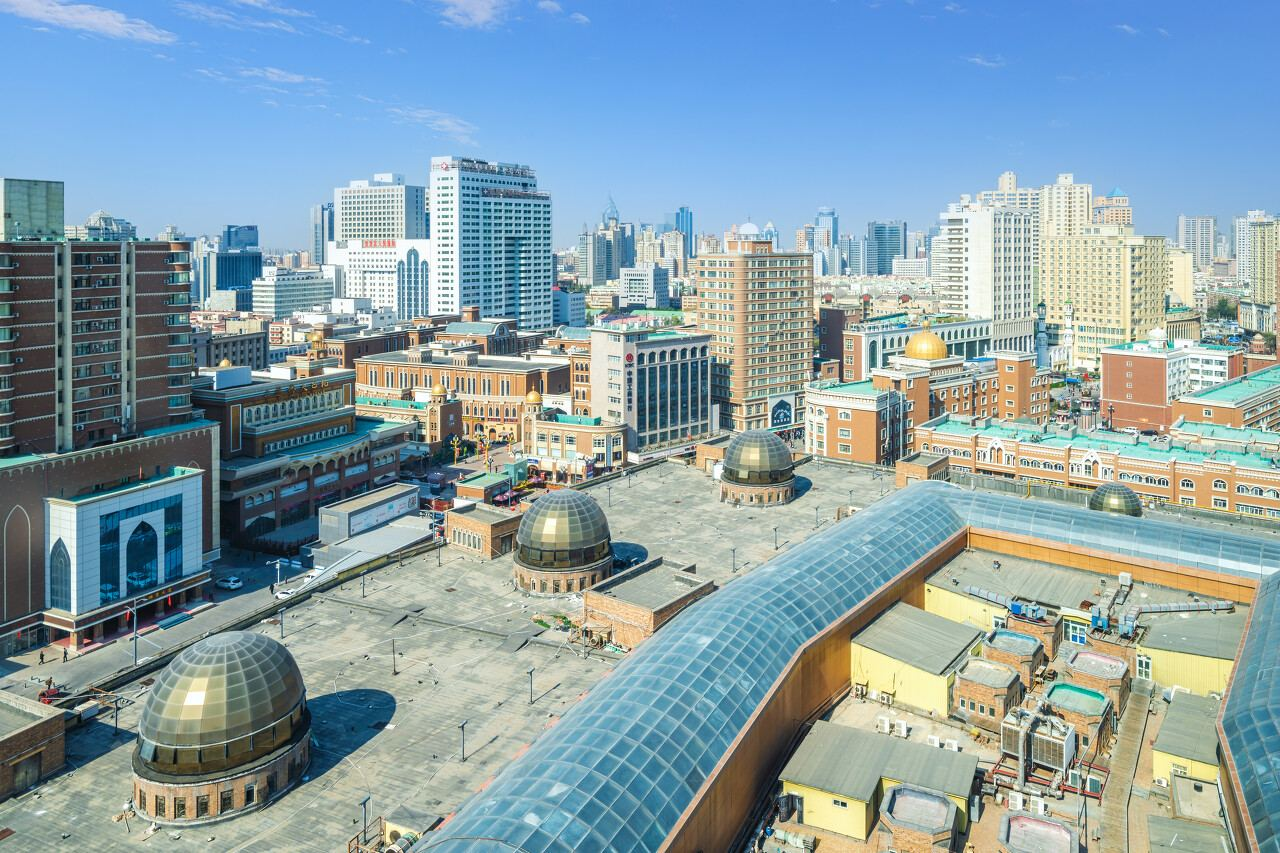
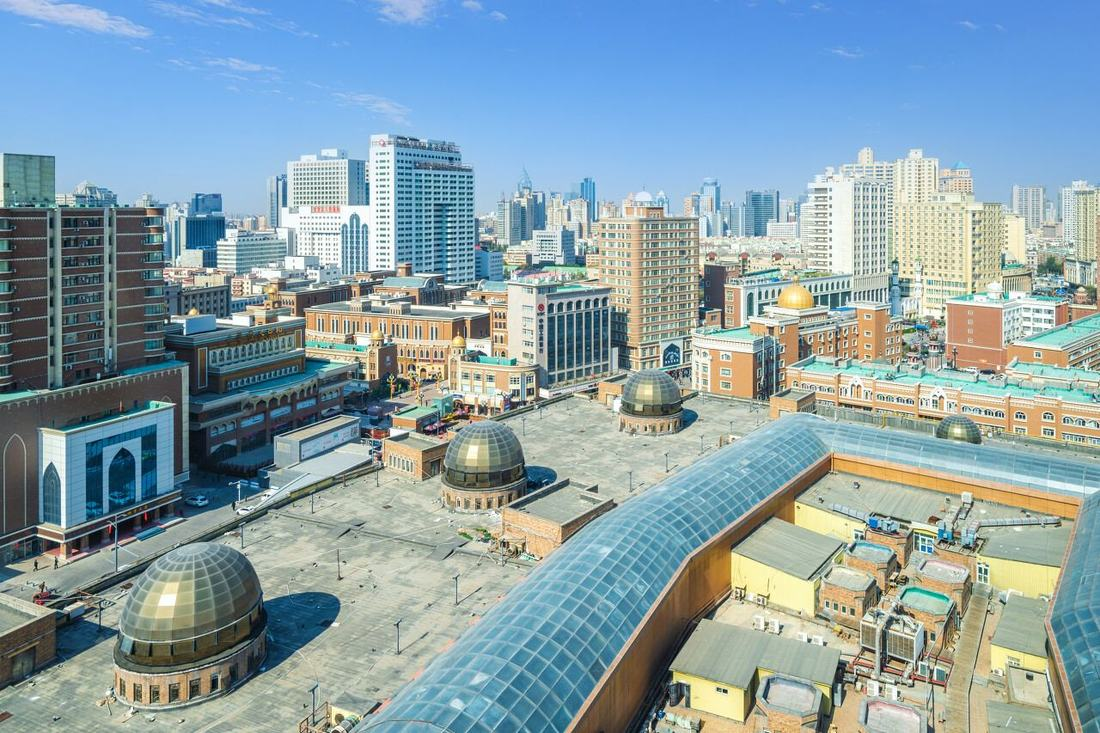
打通看点与地图：16 个看点、14 个地图入口
新增看点 喀纳斯三湾 / 温泉圣泉（实景图 2 张，素材压回 10MB 内）
看点卡新增地图定位按钮：点开切到当天并定位到该点弹卡；没有精确点位的只给当天整条线，不假装有点
喀纳斯湖冰推里观鱼台口径改准：2026-10-07 起已季节性关闭、徒步线路同步停开
路线未加载完时先挂起请求，加载完自动带过去
SPOT_ALIAS 补三湾 月亮湾 卧龙沟 圣泉 博格达尔等跳转词

diff --git a/index.html b/index.html
@@ -145,6 +145,9 @@ button{font-family:inherit;cursor:pointer;border:none;background:none;color:inhe
 .spot-card__book{font-size:.76rem;margin-top:.4rem;color:var(--text-secondary);line-height:1.5}
 .spot-card__book a{color:var(--accent);text-decoration:none;border-bottom:1px solid currentColor}
 .spot-card__book a:hover{opacity:.75}
+.spot-card__map{display:inline-flex;align-items:center;gap:.35rem;margin-top:.55rem;padding:.28rem .58rem;border:1px solid var(--border);border-radius:0;background:transparent;color:var(--text-secondary);font:inherit;font-size:.74rem;line-height:1.5;cursor:pointer;transition:var(--transition)}
+.spot-card__map:hover{border-color:var(--accent);color:var(--accent)}
+.spot-card__map svg{width:12px;height:12px;flex:none;opacity:.72}
 
 .lightbox{position:fixed;inset:0;z-index:2000;background:rgba(0,0,0,.92);display:none;align-items:center;justify-content:center;padding:2rem}
 .lightbox.active{display:flex}
@@ -1017,10 +1020,10 @@ const itinerary = [
   },
 ];
 
-const spotKinds = ['网红','小众','备选','人文','网红','打卡','小众','人文','备选','打卡','人文','机位','机位','打卡'];
+const spotKinds = ['网红','小众','备选','人文','网红','打卡','小众','人文','备选','打卡','人文','机位','机位','打卡','机位','人文'];
 const spots = [
   {name:'禾木晨雾',region:'阿勒泰',desc:'日出时哈登观景台，炊烟、晨雾、木屋群。12 月初日出约 09:30。冬季全域票 100 元/人·3 天，含禾木。村里车位少，自驾进村要先预约，没约上就停游客中心换免费区间车。',img:'assets/spot_hemu.jpg',ref:'实景图·VCG',book:'官方渠道：小程序「喀纳斯景区」「原行网」· 无网页购票',bookUrl:'https://kns.gov.cn/005/005002/20251023/9b6b36ac-c16d-4b28-84a6-dda609d72f5c.html'},
-  {name:'喀纳斯湖冰推',region:'阿勒泰',desc:'12 月初湖面开始结冰，冰块被风推到岸边堆起来。全域票已含喀纳斯。哈纳斯村冬季可自驾进、在指定区域停车。观鱼台冬天常封闭，到了问一句。',img:'assets/spot_kanas.jpg',ref:'实景图·VCG',book:'官方渠道：小程序「喀纳斯景区」「原行网」· 无网页购票',bookUrl:'https://kns.gov.cn/005/005002/20251023/9b6b36ac-c16d-4b28-84a6-dda609d72f5c.html'},
+  {name:'喀纳斯湖冰推',region:'阿勒泰',desc:'12 月初湖面开始结冰，冰块被风推到岸边堆起来。全域票已含喀纳斯。哈纳斯村冬季可自驾进、在指定区域停车。观鱼台 2026 年 10 月 7 日起已季节性关闭、徒步线路同步停开，这条别惦记。',img:'assets/spot_kanas.jpg',ref:'实景图·VCG',book:'官方渠道：小程序「喀纳斯景区」「原行网」· 无网页购票',bookUrl:'https://kns.gov.cn/005/005002/20251023/9b6b36ac-c16d-4b28-84a6-dda609d72f5c.html'},
   {name:'白哈巴村',region:'阿勒泰',desc:'这次不去，要边防证。留作下次：西北第一村，中哈边境。',img:'assets/spot_baihaba.jpg',ref:'实景图·VCG',book:'本次不去，不用买票',bookUrl:''},
   {name:'布尔津河堤夜市',region:'布尔津',desc:'冷水鱼一条街。烤狗鱼、五道黑，晚上才热闹。',img:'assets/spot_nightmarket.jpg',ref:'实景图·今日头条',book:'街区免费，吃饭按店结账',bookUrl:''},
   {name:'赛里木湖蓝冰',region:'博州',desc:'12 月初只有冰推冰裂，成片蓝冰要等 1 月中下旬。冬季门票半价 35 元/人；自驾服务费按车算，5 座及以下 120 元。东门进南门出，逆时针环湖。',img:'assets/spot_sayram.jpg',ref:'实景图·人民图片',book:'景区官方平台在线预约门票↗',bookUrl:'https://h5.visitor.xjslmhlt.cn/'},
@@ -1033,6 +1036,8 @@ const spots = [
   {name:'哈登观景台',region:'阿勒泰',desc:'禾木村旁边的山坡观景台，日出、晨雾、炊烟和整片屋顶都在这儿一眼收下。12 月初日出约 09:30，提前 40 分钟往上走占位；雪坡滑，鞋底要有齿。票含在禾木全域票里，不另收。',img:'assets/spot_hadeng.jpg',ref:'实景图·千图网',book:'含在喀纳斯全域票（100 元/人·3 天）内',bookUrl:'https://kns.gov.cn/005/005002/20251023/9b6b36ac-c16d-4b28-84a6-dda609d72f5c.html'},
   {name:'禾木桥',region:'阿勒泰',desc:'跨在禾木河上的木桥，全村最有辨识度的一段。冬天河水还在流，桥下腾着白雾，两侧白桦挂着雪。早上人少，侧逆光能把木桥、雪山、流水三样同框收进一张。',img:'assets/spot_hemubridge.jpg',ref:'实景图·VCG',book:'免费，就在村里，不用买票',bookUrl:''},
   {name:'独库公路零公里',region:'克拉玛依',desc:'G217 独库公路的起点碑，在独山子城区，从玛依塔柯酒店过去很近。要注意这条路 12 月是封的：自治区交通运输厅通告，2026 年 10 月 8 日 20 时起冬季封闭、禁止社会车辆通行，一般次年 6 月才恢复。所以只拍碑，别打算开进去。',img:'assets/spot_duku0.jpg',ref:'来源：自治区交通运输厅通告↗',refUrl:'https://jtyst.xinjiang.gov.cn/xjjtysj/c115584/202610/51492d5769d8457a931374927313c6d9.shtml',book:'免费，路边打卡；公路本身冬季禁行↗',bookUrl:'https://jtyst.xinjiang.gov.cn/xjjtysj/c115584/202610/51492d5769d8457a931374927313c6d9.shtml'},
+  {name:'喀纳斯三湾',region:'阿勒泰',desc:'卧龙湾、月亮湾、神仙湾在喀纳斯河下游依次排开，园内区间车有停靠点，冬天照走。12 月初河面冰封、主河道还是碧绿的，两岸松枝挂满雾凇；但雪把河湾盖住大半，秋天那种彩色河湾是看不到了，别按秋天的照片期待。',img:'assets/spot_sanwan.jpg',ref:'实景图·视觉中国',book:'官方渠道：小程序「喀纳斯景区」「原行网」· 无网页购票',bookUrl:'https://kns.gov.cn/005/005002/20251023/9b6b36ac-c16d-4b28-84a6-dda609d72f5c.html'},
+  {name:'温泉圣泉',region:'博州',desc:'温泉县城边上的博格达尔温泉，当地人叫它「圣泉」，主泉眼常年 40–62℃。花间堂就在这个景区里，D8 住下不用出景区就能泡；景区全年全天开放，白天有免费泡脚的池子，正对雪山和湿地。泡池是酒店自己的，另收费。',img:'assets/spot_shengquan.jpg',ref:'实景图·今日头条',book:'景区免费进入；泡池按酒店单独收费',bookUrl:''},
 ];
 
 /* 酒店（九晚住处） */
@@ -1205,7 +1210,7 @@ function renderSpots(){
       const book=s.book?(s.bookUrl?`<div class="spot-card__book"><a href="${s.bookUrl}" target="_blank" rel="noopener" onclick="event.stopPropagation()">${s.book}</a></div>`:`<div class="spot-card__book">${s.book}</div>`):'';
       return `<div class="spot-card reveal" data-spot="${i}" data-jumpkey="${s.name}">
         ${galleryTpl(imgs,s.name,'spot-'+i)}
-        <div class="spot-card__body"><div class="spot-card__name"><span class="spot-card__kind">${spotKinds[i]||'看点'}</span>${codeBadge(s.name)}${s.name}</div><div class="spot-card__desc">${s.desc}</div>${book}<div class="spot-card__ref">${s.ref}</div></div></div>`;
+        <div class="spot-card__body"><div class="spot-card__name"><span class="spot-card__kind">${spotKinds[i]||'看点'}</span>${codeBadge(s.name)}${s.name}</div><div class="spot-card__desc">${s.desc}</div>${book}${mapBtn(s,i)}<div class="spot-card__ref">${s.ref}</div></div></div>`;
     }).join('');
     return `<div class="region-head anchor-block" id="reg-${reg}"><span class="region-head__name">${reg}</span><span class="region-head__meta">${idxs.length} 处</span></div><div class="spots-grid">${cards}</div>`;
   }).join('');
@@ -1818,6 +1823,7 @@ function jumpTargets(){
 }
 /* 景点地名 → 看点卡片：手工别名表，右边一律逐字等于 spots 里的 name */
 const SPOT_ALIAS={
+  '喀纳斯三湾':'喀纳斯三湾','三湾':'喀纳斯三湾','月亮湾':'喀纳斯三湾','卧龙湾':'喀纳斯三湾','神仙湾':'喀纳斯三湾','温泉圣泉':'温泉圣泉','圣泉':'温泉圣泉','博格达尔':'温泉圣泉',
   '喀纳斯湖':'喀纳斯湖冰推','喀纳斯':'喀纳斯湖冰推',
   '禾木村':'禾木晨雾','禾木':'禾木晨雾',
   '白哈巴':'白哈巴村','阿禾公路':'阿禾公路',
@@ -1962,6 +1968,14 @@ const CARD_CODE={
   '赛里木湖蓝冰':['D7-2'],
   '乌鲁木齐大巴扎':['D9-3']
 };
+const MV_SPOT_SVG='<svg viewBox="0 0 24 24" fill="none" stroke="currentColor" stroke-width="1.8" aria-hidden="true"><path d="M12 21s-6.5-6.1-6.5-11a6.5 6.5 0 0 1 13 0c0 4.9-6.5 11-6.5 11z"/><circle cx="12" cy="10" r="2.4"/></svg>';
+/* 看点 → 当天编号：'D3-3' 表示回 D3 地图定位该点，'D5' 只表示在这天的路上 */
+const SPOT_MAP={'禾木晨雾':'D3-2','喀纳斯湖冰推':'D4-1','布尔津河堤夜市':'D5-2','赛里木湖蓝冰':'D7-2','魔鬼城雪景':'D6-1','阿禾公路':'D3','乌鲁木齐大巴扎':'D9-2','五彩滩日落':'D5','黑油山':'D6','哈登观景台':'D3-3','禾木桥':'D3','独库公路零公里':'D6','喀纳斯三湾':'D4','温泉圣泉':'D8-1'};
+function mapBtn(s,i){
+  const c=SPOT_MAP[s.name]; if(!c)return '';
+  const pin=c.indexOf('-')>0;
+  return '<button class="spot-card__map" type="button" data-spotmap="'+i+'" title="'+(pin?'在地图上定位这个点':'看这一天的整条线路')+'">'+MV_SPOT_SVG+'<span>'+(pin?'地图定位':'D'+c.slice(1)+' 路上')+'</span></button>';
+}
 function codeBadge(n){var c=CARD_CODE[n];return (c&&c.length)?'<span class="poi-code">'+c.join('/')+'</span>':'';}
 
 /* 初始化 */
@@ -1999,6 +2013,8 @@ const DAYS = Object.keys(mapDays);
 
 /* 站点编号全量表：按天顺序、每天从 1 开始，与当前视图无关——单天看和全程看，同一个点永远同一个号 */
 const POI_CODE=(function(){var m={};DAYS.forEach(function(d){var i=0;((mapDays[d]||{}).pois||[]).forEach(function(p){i++;m[d+'|'+p[2]]=d+'-'+i;});});return m;})();
+/* 反向表：'D3-3' → {day,p}，供看点卡跳地图用 */
+const CODE_POI=(function(){var m={};DAYS.forEach(function(d){var i=0;((mapDays[d]||{}).pois||[]).forEach(function(p){i++;m[d+'-'+i]={day:d,p:p};});});return m;})();
 const KMPS = 15;                 /* 1× = 15 km/秒，全程约 190 秒 */
 
 let mvMap=null,mvBase=null,mvTrail=null,mvGlow=null,mvProg=null,mvHi=null,mvCar=null,mvMe=null,mvWatch=null,mvLoaded=false,mvDayMarks=[],mvPoiLayer=null;
@@ -2418,6 +2434,10 @@ function mvInit(){
 
   loadRoutes(function(){
     mvLoaded=true;
+    if(mvPendingSpot!==null){
+      var _pend=mvPendingSpot; mvPendingSpot=null;
+      setTimeout(function(){ try{spotJump(_pend);}catch(e){} },320);
+    }
     buildTrip();
     mvBase.setLatLngs(GPTS);
     const DAY_PLACE=['乌市','阿勒泰','禾木','喀纳斯','布尔津','乌尔禾·独山子','赛里木湖','温泉县','乌市','机场还车'];
@@ -2443,6 +2463,45 @@ function mvInit(){
     if(PV._wantPlay){PV._wantPlay=false;setPlaying(true);}
   });
 }
+let mvSpotLayer=null;
+let mvPendingSpot=null;   /* 路线还没加载完时，先把要看的看点存下来 */
+/* 从看点卡跳到地图：开地图 → 切到那天 → 定位并弹卡；没有精确点位的只给当天整条线 */
+function spotJump(idx){
+  const s=spots[idx]; if(!s)return;
+  const code=SPOT_MAP[s.name]; if(!code)return;
+  const mvs=document.getElementById('mapView'); if(!mvs)return;
+  if(!mvs.classList.contains('active')){ mvs.classList.add('active'); if(!mvMap) mvInit(); }
+  /* loadRoutes 是异步的：路线没就绪时地图上还没有当天的点和线，先把请求挂起 */
+  if(typeof mvLoaded!=='undefined' && !mvLoaded && !mvPendingSpot){
+    mvPendingSpot=idx;
+    setTimeout(function(){ try{mvHint('地图正在加载路线，加载完就带你去「'+s.name+'」');}catch(e){} },300);
+    return;
+  }
+  if(mvPendingSpot===idx) mvPendingSpot=null;
+  setTimeout(function(){
+    if(!mvMap)return;
+    try{mvMap.invalidateSize();}catch(e){}
+    try{setPlaying(false);}catch(e){}
+    const day=code.split('-')[0];
+    try{goDay(day);}catch(e){}
+    if(!mvSpotLayer){ mvSpotLayer=L.layerGroup().addTo(mvMap); }
+    mvSpotLayer.clearLayers();
+    const hit=CODE_POI[code];
+    if(hit){
+      const mk=mvPoiMarker(hit.day,hit.p).addTo(mvSpotLayer);
+      mvMap.setView([hit.p[0],hit.p[1]],12.8,{animate:true,duration:0.8});
+      setTimeout(function(){ try{mk.openPopup();}catch(e){} },340);
+    } else {
+      try{mvHint('这一天路上会经过「'+s.name+'」，地图给的是当天整条线');}catch(e){}
+    }
+  },480);
+}
+document.addEventListener('click',function(e){
+  const b=e.target&&e.target.closest?e.target.closest('[data-spotmap]'):null;
+  if(!b)return;
+  e.preventDefault(); e.stopPropagation();
+  spotJump(Number(b.dataset.spotmap));
+},true);
 function mvBootstrap(){
   var btn=document.createElement('button');
   btn.className='map-entry';btn.type='button';btn.textContent='路书地图';
